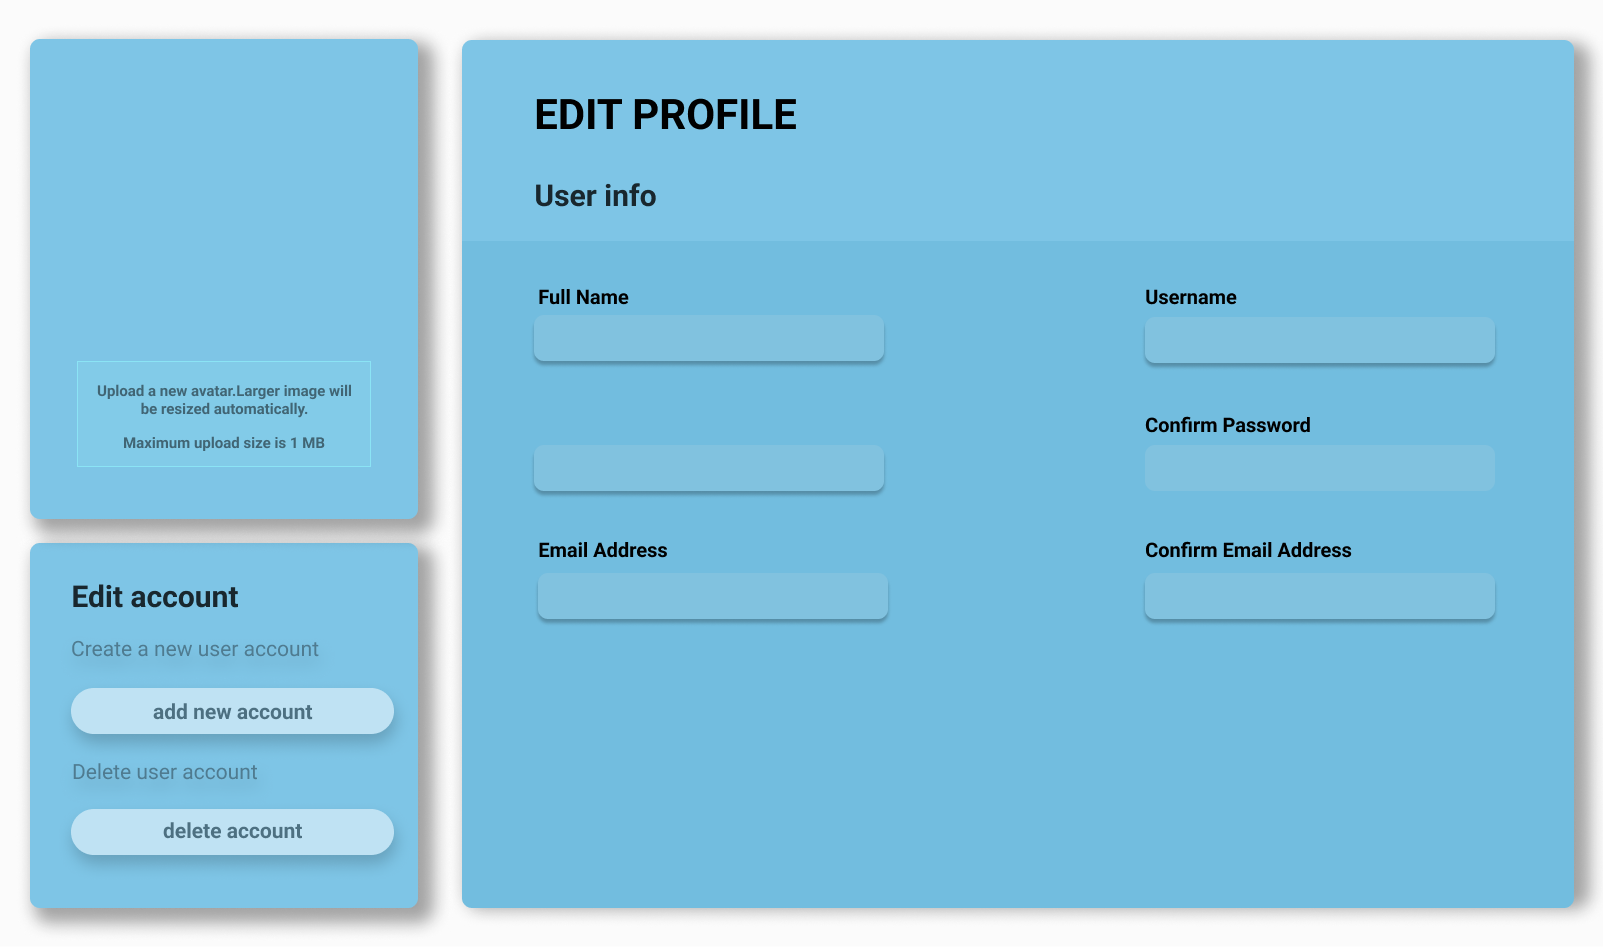
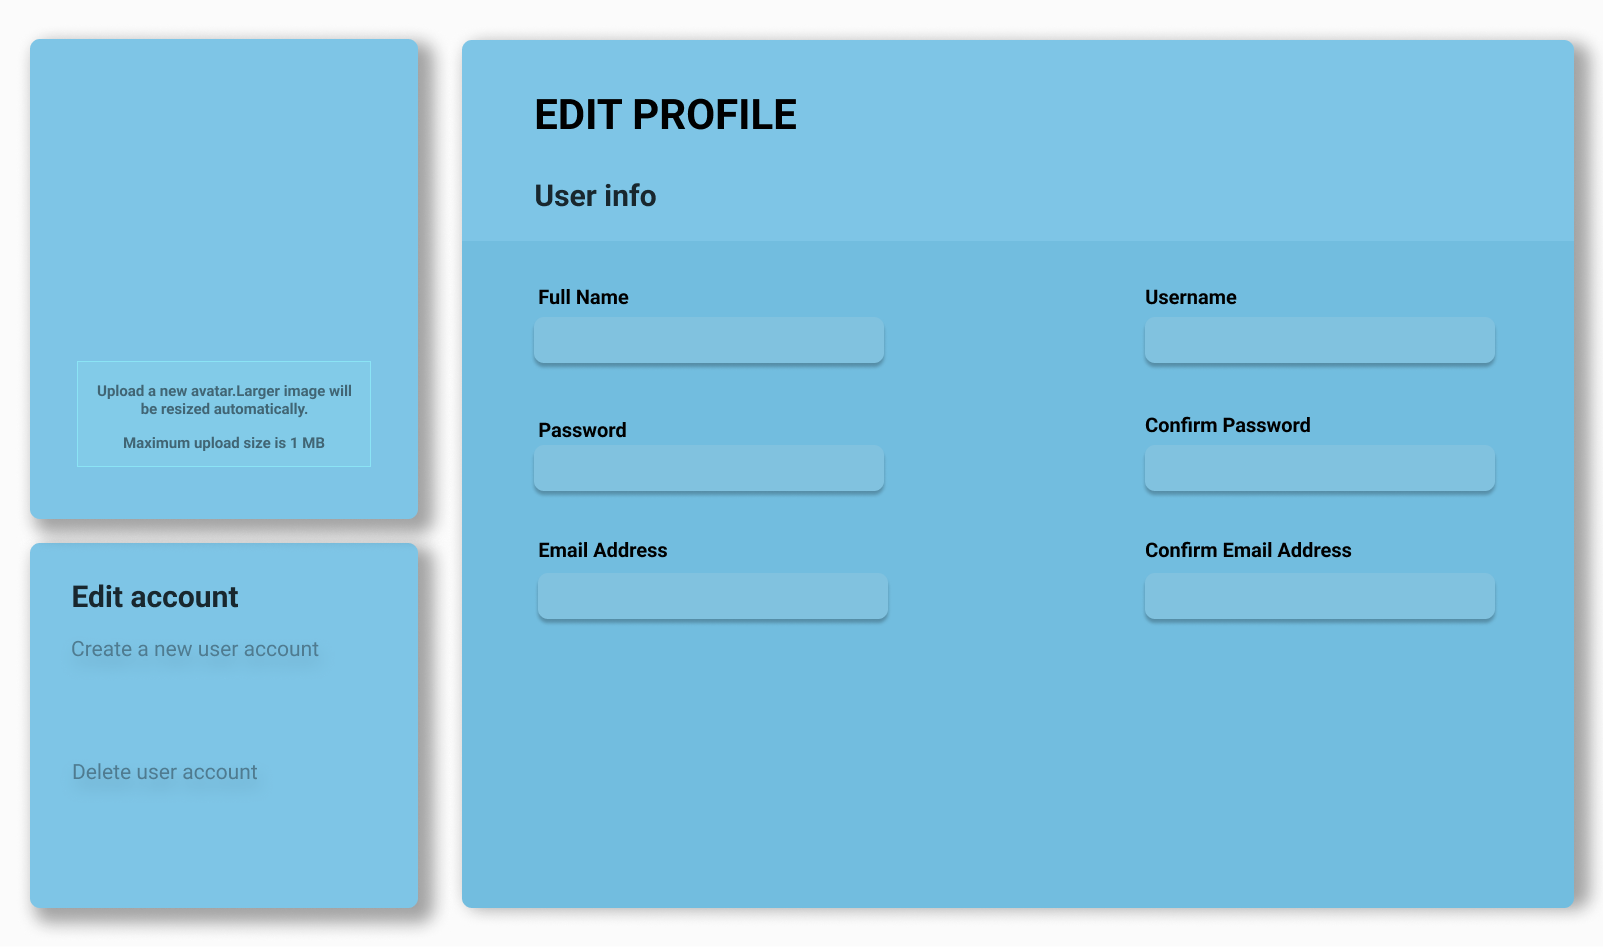
settingForm.fxml finished

Changed region(s): [[0.0312, 0.7043, 0.2495, 0.7962], [0.0312, 0.8268, 0.2495, 0.9187], [0.3431, 0.4287, 0.4055, 0.4593]]

diff --git a/turtleCare/src/main/resources/style/btnGreenStyles.css b/turtleCare/src/main/resources/style/btnGreenStyles.css
@@ -1,14 +1,16 @@
 .button-with-style {
-    -fx-background-color: rgb(3, 4, 94);
+    -fx-background-color: rgb(255, 255, 255);
     -fx-background-radius: 15;
     -fx-border-radius: 15;
-    -fx-text-fill: white; /* You can change the text color as needed */
+    -fx-opacity: 0.5;
+    -fx-text-fill: #000000; /* You can change the text color as needed */
 }
 
 /* CSS Style for the Button when Hovered */
 .button-with-style:hover {
     -fx-background-color: rgb(80, 200, 92);
-    -fx-text-fill: black;
+    -fx-text-fill: #ffffff;
+    -fx-opacity: 1;
 }
 
 /* CSS Style for the Button when Pressed */

diff --git a/turtleCare/src/main/resources/style/btnRedStyles.css b/turtleCare/src/main/resources/style/btnRedStyles.css
@@ -1,0 +1,19 @@
+.button-with-style {
+    -fx-background-color: rgb(255, 255, 255);
+    -fx-opacity: 0.5;
+    -fx-background-radius: 15;
+    -fx-border-radius: 15;
+    -fx-text-fill: #000000; /* You can change the text color as needed */
+}
+
+/* CSS Style for the Button when Hovered */
+.button-with-style:hover {
+    -fx-background-color: rgb(255, 61, 23);
+    -fx-text-fill: #ffffff;
+    -fx-opacity: 1;
+}
+
+/* CSS Style for the Button when Pressed */
+.button-with-style:pressed {
+    -fx-background-color: rgb(255, 61, 23);
+}

diff --git a/turtleCare/src/main/resources/style/whiRedBtnStyles.css b/turtleCare/src/main/resources/style/whiRedBtnStyles.css
@@ -1,0 +1,19 @@
+.button-with-style {
+    -fx-background-color: rgb(60, 153, 196);
+    -fx-background-radius: 15;
+    -fx-border-radius: 15;
+    -fx-opacity: 0.5;
+    -fx-text-fill: #000000; /* You can change the text color as needed */
+}
+
+/* CSS Style for the Button when Hovered */
+.button-with-style:hover {
+    -fx-background-color: rgb(255, 61, 23);
+    -fx-text-fill: #ffffff;
+    -fx-opacity: 1;
+}
+
+/* CSS Style for the Button when Pressed */
+.button-with-style:pressed {
+    -fx-background-color: rgb(255, 61, 23);
+}

diff --git a/turtleCare/src/main/resources/style/colorChangeStyles.css b/turtleCare/src/main/resources/style/colorChangeStyles.css
@@ -8,6 +8,6 @@
 /* Styles for the pane when hovered */
 .pane-with-style:hover {
     -fx-background-color: rgb(81, 164, 202); /* New background color on hover */
-    -fx-opacity: 0.4; /* New opacity on hover */
+    -fx-opacity: 0.5; /* New opacity on hover */
     -fx-background-radius: 10 ;
 }

diff --git a/turtleCare/src/main/java/lk/ijse/controller/SettingFormController.java b/turtleCare/src/main/java/lk/ijse/controller/SettingFormController.java
@@ -1,11 +1,50 @@
 package lk.ijse.controller;
 
+import com.jfoenix.controls.JFXButton;
 import javafx.fxml.FXML;
+import javafx.scene.control.Label;
+import javafx.scene.control.TextField;
 import javafx.scene.layout.AnchorPane;
 
 public class SettingFormController {
 
     @FXML
+    private JFXButton addAccountBtn;
+
+    @FXML
+    private TextField conEmailAdd;
+
+    @FXML
+    private TextField confirmPwSet;
+
+    @FXML
+    private JFXButton delAccountBtn;
+
+    @FXML
+    private TextField emailAdd;
+
+    @FXML
+    private TextField fullName;
+
+    @FXML
+    private JFXButton logOutbtn;
+
+    @FXML
+    private Label nameOfProfile;
+
+    @FXML
+    private TextField pwSet;
+
+    @FXML
     private AnchorPane settingPane;
+
+    @FXML
+    private JFXButton upNewPhoto;
+
+    @FXML
+    private JFXButton updInfobtn;
+
+    @FXML
+    private TextField userName;
 
 }
